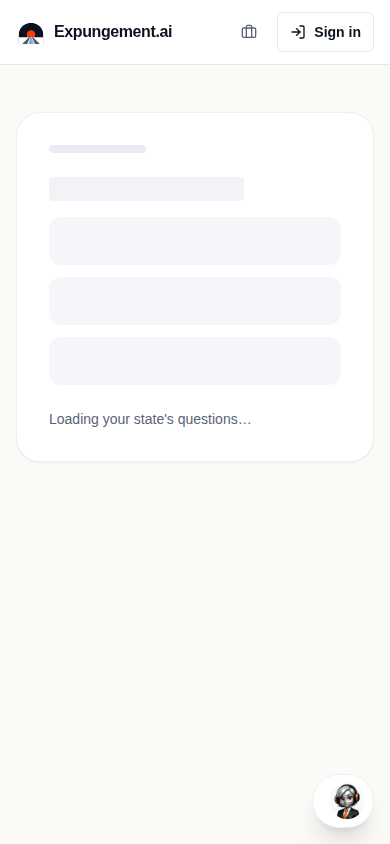
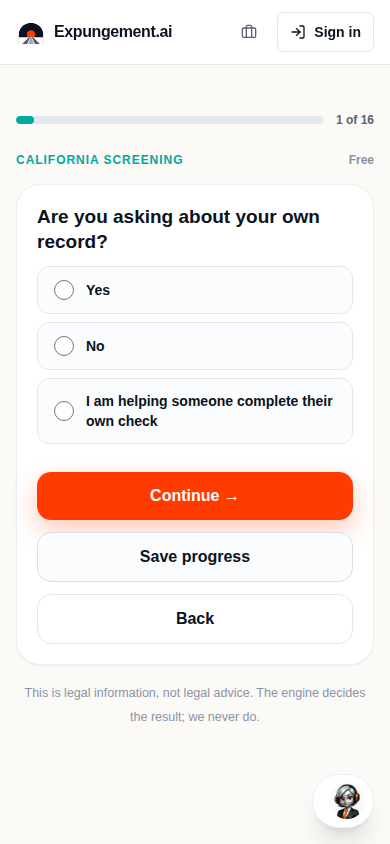
fix: render real screening questions (normalize profile options)
Root cause: the public profile projection passed through `options: ""`
(an empty string) for free-text questions such as the "county" prompt in
13 states (CA, FL, GA, ID, IN, IA, KS, KY, MD, MT, NE, OR, WV). The
frontend contract / Zod schema require `string[] | null`, so the empty
string failed validation and ScreeningFlow rejected the whole profile —
showing the "could not load these questions" error in production (and a
perpetual "Loading your state's questions…" skeleton under dev HMR).

Fix:
- public-profile-projection.ts: normalize each question's `options` to a
  non-empty string array or `null` in both the designer and raw paths, so
  malformed/empty options become the correct "no options" signal.
- profile-loader.ts: add a 10s AbortSignal.timeout to the live profile
  fetch so a hung request resolves to a calm, retryable error instead of
  leaving the flow stuck on the loading skeleton forever.

Verified via npm run verify:frontend-surfaces: the CA screening flow now
renders the app header, "California screening" heading, progress bar,
real question + answer options, and the Wilma bubble (desktop + mobile).

diff --git a/src/lib/rcap-engine/public-profile-projection.ts b/src/lib/rcap-engine/public-profile-projection.ts
@@ -3,6 +3,23 @@ import "server-only";
 import type { EngineProfile, PublicJurisdictionProfile } from "@/lib/rcap-engine/contracts";
 import { getDesignerPublicProfiles } from "@/lib/rcap-engine/profile-registry";
 
+/**
+ * Normalize a question's `options` to the public contract: a non-empty array of strings, or `null`.
+ *
+ * Some compiled profiles carry `options: ""` (an empty string) for free-text questions such as the
+ * "county" prompt. The public contract — and the frontend Zod schema that validates it — require
+ * `string[] | null`, so an empty string makes the entire profile fail validation and the screening
+ * flow renders the "could not load these questions" error. Coercing any non-array (or empty array)
+ * value to `null` keeps real choice lists intact while turning malformed/empty options into the
+ * correct "no options" signal for text/number/date questions.
+ */
+function normalizeQuestionOptions(options: unknown): string[] | null {
+  if (Array.isArray(options) && options.length > 0 && options.every((opt) => typeof opt === "string")) {
+    return options as string[];
+  }
+  return null;
+}
+
 export function projectPublicProfile(profile: EngineProfile): PublicJurisdictionProfile {
   const designerProfile = getDesignerPublicProfiles()[profile.jurisdiction.code];
   if (designerProfile) {
@@ -23,6 +40,7 @@ export function projectPublicProfile(profile: EngineProfile): PublicJurisdiction
       })),
       questions: designerProfile.questions.map((question) => ({
         ...question,
+        options: normalizeQuestionOptions(question.options),
         contextOnly: question.contextOnly === true,
         doesNotSelectPathway: question.contextOnly === true || question.doesNotSelectPathway === true
       })),
@@ -56,7 +74,7 @@ export function projectPublicProfile(profile: EngineProfile): PublicJurisdiction
       required: question.required,
       contextOnly: question.contextOnly === true,
       doesNotSelectPathway: question.contextOnly === true || question.doesNotSelectPathway === true,
-      options: question.options ?? null,
+      options: normalizeQuestionOptions(question.options),
       optionDisplay: question.optionDisplay
     })),
     caseOutcomeOptions: profile.caseOutcomeOptions,

diff --git a/src/lib/expungement-ai/frontend/profile-loader.ts b/src/lib/expungement-ai/frontend/profile-loader.ts
@@ -92,12 +92,20 @@ function loadMockProfile(key: string): { ok: true; value: unknown } | { ok: fals
  * response is still validated by `loadJurisdictionProfile` before render; the engine's live
  * response is the source of truth for the profile shape.
  */
+/**
+ * Hard ceiling on the live profile request. Without this, a hung or never-resolving fetch would
+ * leave the screening flow stuck on the "Loading your state's questions…" skeleton forever. The
+ * timeout converts a stall into a calm, retryable error state instead.
+ */
+const PROFILE_FETCH_TIMEOUT_MS = 10_000;
+
 async function fetchLiveProfile(
   key: string
 ): Promise<{ ok: true; value: unknown } | { ok: false; error: string }> {
   try {
     const response = await fetch(`/api/expungement-ai/profiles/${encodeURIComponent(key)}`, {
-      headers: { accept: "application/json" }
+      headers: { accept: "application/json" },
+      signal: AbortSignal.timeout(PROFILE_FETCH_TIMEOUT_MS)
     });
     if (!response.ok) {
       return { ok: false, error: `Profile request failed (${response.status}).` };